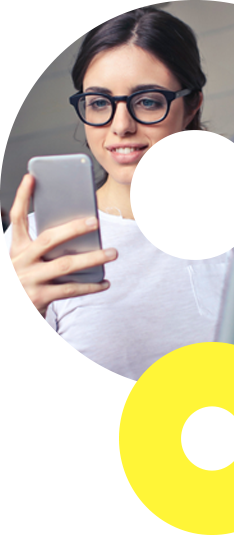
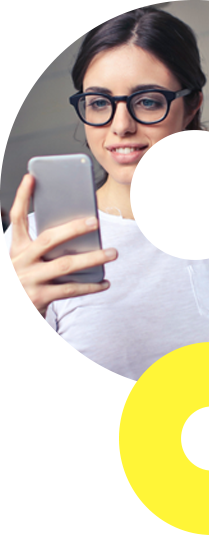
Cambios en overflow

diff --git a/index.html b/index.html
@@ -16,183 +16,185 @@
 </head>
 
 <body>
-    <section class="about">
-        <!-- <img src="images/Bg.png" class="img-fluid" alt=""> -->
-        <div class="header">
-            <img src="images/Dots.png" class="d-block img-fluid ml-auto dots" alt="">
-            <img src="images/Logo.png" class="d-block mx-auto img-fluid logo" alt="">
-            <img src="images/Dots-2.png" class="d-block img-fluid dots-2" alt="">
-        </div>
-        <div class="content">
-            <p class="">Somos la primer y única escuela en la Ciudad de México diseñada por mujeres y para mujeres para formar una nueva generación de conductoras seguras, responsables y confiables que nos permita vivir la experiencia de libertad de manejar un automóvil, camioneta o motocicleta.</p>
-            <p class="">Somos una comunidad de instructoras con más de 10 años de experiencia de manejo, capacitadas para brindar a nuestras alumnas un ámbiente agradable, empático con sus necesidades, libre de acoso.</p>
-            <p class="">Además, te invitamos a conocer los servicios, productos y cuidados que ofrecen nuestras socias de la <span>RED ECONÓMICA PARA MUJERES</span>, para brindarte una mayor cobertura como conductora segura. Pregunta por nuestras promociones y descuentos.</p>
-        </div>
-        <hr>
-        <div class="redes">
-            <img src="images/Dots-3.png" class="img-fluid" alt="">
-            <div class="icons">
-                <a href="tel:5576915963" target="_blank"><img src="images/Tel.png" class="icon" alt=""> 55 7691 5963</a>
-                <a href="https://api.whatsapp.com/send?phone=5215554322040" target="_blank"><img src="images/whats.png" class="icon" alt=""> 55 5432 2040</a>
-                <a href="https://twitter.com/Conductoras1" target="_blank"><img src="images/Twitter.png" class="icon" alt=""> @Conductoras1</a>
-                <a href="mailto:redconductoras@gmail.com" target="_blank"><img src="images/Correo.png" class="icon" alt=""> redconductoras@gmail.com</a>
-                <a href="https://goo.gl/maps/xuTAEPSuWKuKVtMx7" target="_blank"><img src="images/Maps.png" class="icon" alt=""><span>Tomás Alva Edison num 173
-                        Col. San Rafael, Alc. Cuauhtémoc, Ciudad de México</span></a>
+    <div class="wrap">
+        <section class="about">
+            <!-- <img src="images/Bg.png" class="img-fluid" alt=""> -->
+            <div class="header">
+                <img src="images/Dots.png" class="d-block img-fluid ml-auto dots" alt="">
+                <img src="images/Logo.png" class="d-block mx-auto img-fluid logo" alt="">
+                <img src="images/Dots-2.png" class="d-block img-fluid dots-2" alt="">
             </div>
-            <img src="images/Redes.png" class="img-fluid dona" alt="">
-        </div>
-    </section>
-
-    <!-- SERVICIOS -->
-    <section class="servicios">
-        <img src="images/servicios/Dots.png" class="img-fluid d-block mx-auto dots" alt="">
-        <h2 class="text-center my-4 title">SERVICIOS</h2>
-        <div class="servicios">
-            <div class="item">
-                <p>1</p>
-                <img src="images/servicios/Urbano.png" class="img-fluid" alt="">
-                <p>Cursos Básico, Medio y Avanzado <span>Manejo urbano*</span> </p>
+            <div class="content">
+                <p class="">Somos la primer y única escuela en la Ciudad de México diseñada por mujeres y para mujeres para formar una nueva generación de conductoras seguras, responsables y confiables que nos permita vivir la experiencia de libertad de manejar un automóvil, camioneta o motocicleta.</p>
+                <p class="">Somos una comunidad de instructoras con más de 10 años de experiencia de manejo, capacitadas para brindar a nuestras alumnas un ámbiente agradable, empático con sus necesidades, libre de acoso.</p>
+                <p class="">Además, te invitamos a conocer los servicios, productos y cuidados que ofrecen nuestras socias de la <span>RED ECONÓMICA PARA MUJERES</span>, para brindarte una mayor cobertura como conductora segura. Pregunta por nuestras promociones y descuentos.</p>
             </div>
-            <div class="item">
-                <p>2</p>
-                <img src="images/servicios/Carretera.png" class="img-fluid" alt="">
-                <p>Cursos para <span>CARRETERA</span> </p>
-            </div>
-            <div class="item">
-                <p>3</p>
-                <img src="images/servicios/Motocicleta.png" class="img-fluid" alt="">
-                <p>Cursos para <span>MOTOCICLETA</span> </p>
-            </div>
-            <div class="item">
-                <p>4</p>
-                <img src="images/servicios/Herramientas.jpg" class="img-fluid" alt="">
-                <p>Cursos de <span>MÉCANICA GENERAL</span> </p>
-            </div>
-            <div class="restricciones">
-                <div class="">
-                    <span>*</span>
-                    <p>Acudimos a tu domicilio. Se aplican restricciónes.</p>
-                </div>
-                <div class="">
-                    <span>**</span>
-                    <p>Garantizamos la desinfección de nuestras unidades de acuerdo con la normatividad vigente de la Ciudad
-                        de México para prevenir contagios de COVID-19.</p>
-                </div>
-                <div class="">
-                    <span>***</span>
-                    <p>Atención primordial para conductoras nerviosas, mujeres jóvenes y mamás primerizas.</p>
-                </div>
-
-            </div>
-        </div>
-
-    </section>
-    <img src="images/servicios/Dots.png" width="120" class="img-fluid d-block my-2" alt="">
-    <!-- PRECIOS -->
-    <section class="precios py-3">
-        <h2 class="title">PRECIOS</h2>
-        <div class="table">
-            <div class="item">
-                <p><span>MANEJO URBANO</span></p>
-                <p class="text-center">Horas</p>
-                <p class="text-center">Precio</p>
-            </div>
-            <div class="item">
-                <p><span> Básico:</span> Aprende a identificar las partes principales de tu automóvil, tablero y dirección. Standart o automático. Autos sedán o camioneta familiar.</p>
-                <p class="text-center">6 Hrs.</p>
-                <p class="text-center"><span>$1,690 MXN</span></p>
-            </div>
-            <div class="item">
-                <p><span> Medio:</span> Curso básico + Ingreso a avenidas principales o vías primarias rápidas como : Tlalpan, periférico, viaducto, etc. dependiendo donde te encuentres.</p>
-                <p class="text-center">8 Hrs.</p>
-                <p class="text-center"><span>$2,990 MXN</span></p>
-            </div>
-            <div class="item">
-                <p><span>Avanzado:</span> Básico + Medio + Técnicas para evitar accidentes, visualización de punto ciego y arranque en subidas prolongadas.</p>
-                <p class="text-center">10 Hrs.</p>
-                <p class="text-center"><span>$3,790 MXN</span></p>
-            </div>
-            <div class="item">
-                <p><span>Reforzamiento:</span> Para conductores con experiencia. <br>
-                    Formas de estacionamiento. <br>
-                    Vías primarias rápidas. <br>
-                    Manejo de la ansiedad. <br>
-                    Madres primerizas.</p>
-                <p class="text-center">6 Hrs.</p>
-                <p class="text-center"><span>$1,690 MXN</span></p>
-            </div>
-        </div>
-        <div class="table">
-            <div class="item">
-                <p><span>CARRETERA</span></p>
-                <p class="text-center">Horas</p>
-                <p class="text-center">Precio</p>
-            </div>
-            <div class="item">
-                <p>Aprende a manejar en carreteras y autopistas. Seguimiento en caravana, prevención de accidentes.
-                    Conducción nocturna.</p>
-                <p class="text-center">16 Hrs.</p>
-                <p class="text-center"><span>$7,637 MXN</span></p>
-            </div>
-        </div>
-        <div class="table">
-            <div class="item">
-                <p><span>MÉCANICA GENERAL</span></p>
-                <p class="text-center">Horas</p>
-                <p class="text-center">Precio</p>
-            </div>
-            <div class="item">
-                <p>Mécanica para conductoras seguras: Aprende a identificar los testigos del tablero, detectar fallas mecánicas, electrónicas y mantenimiento eficiente de tu automóvil con profesionales.</p>
-                <p class="text-center">4 Hrs.</p>
-                <p class="text-center"><span>$700 MXN</span></p>
-            </div>
-        </div>
-    </section>
-
-    <!-- PROMOCIONES -->
-    <section class="promociones ">
-        <div class="content">
-            <div class="header d-flex align-items-center justify-content-center mb-3">
-                <img src="images/Dots-5.png" class="" alt="">
-                <h2 class="title text-center">PROMOCIONES</h2>
-                <img src="images/Icon-Logo.png" class="icon" alt="">
-            </div>
-            <div class="item">
-                <p class="mb-1"><span class="bold">01</span></p>
-                <p>A partir del curso medio tenemos 3 promociones a elegir: </p>
-                <p class="mb-0">a) Una hora de clase adicional gratis,</p>
-                <p class="mb-0">b) El 10% de descuento.</p>
-                <p class="">c) 6 meses sin intereses, más comisión bancaria. </p>
-                <p class="mb-1"><span>* Solo aplica una promoción por curso.</span></p>
-            </div>
-            <div class="item">
-                <p class="mb-1"><span class="bold">02</span></p>
-                <p>En todos los niveles tenemos servicio a domicilio sin costo adicional, si te encuentras a 15 km de la escuela.</p>
-            </div>
-        </div>
-    </section>
-
-    <!-- Contacto -->
-    <section class="contacto">
-        <div class="content">
-            <img src="images/Contacto/Dona.png" class="dona" alt="">
+            <hr>
             <div class="redes">
-                <a href="tel:5576915963" target="_blank"><img src="images/Contacto/Tel.png" alt=""></a>
-                <a href="https://api.whatsapp.com/send?phone=5215554322040" target="_blank"><img src="images/Contacto/whats.png" alt=""></a>
-                <a href="https://twitter.com/Conductoras1" target="_blank"><img src="images/Contacto/Twitter.png" alt=""></a>
-                <a href="mailto:redconductoras@gmail.com" target="_blank"><img src="images/Contacto/email.png" alt=""></a>
-                <a href="https://goo.gl/maps/xuTAEPSuWKuKVtMx7" target="_blank"><img src="images/Contacto/Map.png" alt=""></a>
+                <img src="images/Dots-3.png" class="img-fluid" alt="">
+                <div class="icons">
+                    <a href="tel:5576915963" target="_blank"><img src="images/Tel.png" class="icon" alt=""> 55 7691 5963</a>
+                    <a href="https://api.whatsapp.com/send?phone=5215554322040" target="_blank"><img src="images/whats.png" class="icon" alt=""> 55 5432 2040</a>
+                    <a href="https://twitter.com/Conductoras1" target="_blank"><img src="images/Twitter.png" class="icon" alt=""> @Conductoras1</a>
+                    <a href="mailto:redconductoras@gmail.com" target="_blank"><img src="images/Correo.png" class="icon" alt=""> redconductoras@gmail.com</a>
+                    <a href="https://goo.gl/maps/xuTAEPSuWKuKVtMx7" target="_blank"><img src="images/Maps.png" class="icon" alt=""><span>Tomás Alva Edison num 173
+                            Col. San Rafael, Alc. Cuauhtémoc, Ciudad de México</span></a>
+                </div>
+                <img src="images/Redes.png" class="img-fluid dona" alt="">
             </div>
-            <div class="item d-flex justify-content-center align-items-center">
-                <!-- <img src="images/Dots-5.png" class="" alt=""> -->
-                <h2 class="title">CONTACTO</h2>
+        </section>
+
+        <!-- SERVICIOS -->
+        <section class="servicios">
+            <img src="images/servicios/Dots.png" class="img-fluid d-block mx-auto dots" alt="">
+            <h2 class="text-center my-4 title">SERVICIOS</h2>
+            <div class="servicios">
+                <div class="item">
+                    <p>1</p>
+                    <img src="images/servicios/Urbano.png" class="img-fluid" alt="">
+                    <p>Cursos Básico, Medio y Avanzado <span>Manejo urbano*</span> </p>
+                </div>
+                <div class="item">
+                    <p>2</p>
+                    <img src="images/servicios/Carretera.png" class="img-fluid" alt="">
+                    <p>Cursos para <span>CARRETERA</span> </p>
+                </div>
+                <div class="item">
+                    <p>3</p>
+                    <img src="images/servicios/Motocicleta.png" class="img-fluid" alt="">
+                    <p>Cursos para <span>MOTOCICLETA</span> </p>
+                </div>
+                <div class="item">
+                    <p>4</p>
+                    <img src="images/servicios/Herramientas.jpg" class="img-fluid" alt="">
+                    <p>Cursos de <span>MÉCANICA GENERAL</span> </p>
+                </div>
+                <div class="restricciones">
+                    <div class="">
+                        <span>*</span>
+                        <p>Acudimos a tu domicilio. Se aplican restricciónes.</p>
+                    </div>
+                    <div class="">
+                        <span>**</span>
+                        <p>Garantizamos la desinfección de nuestras unidades de acuerdo con la normatividad vigente de la Ciudad
+                            de México para prevenir contagios de COVID-19.</p>
+                    </div>
+                    <div class="">
+                        <span>***</span>
+                        <p>Atención primordial para conductoras nerviosas, mujeres jóvenes y mamás primerizas.</p>
+                    </div>
+
+                </div>
             </div>
-        </div>
-    </section>
-    <footer>
-        <img src="images/Logo-Footer.png" class="img-fluid logo-footer" alt="">
-        <img src="images/Dots-Footer.png" class="img-fluid" alt="">
-    </footer>
+
+        </section>
+        <img src="images/servicios/Dots.png" width="120" class="img-fluid d-block my-2" alt="">
+        <!-- PRECIOS -->
+        <section class="precios py-3">
+            <h2 class="title">PRECIOS</h2>
+            <div class="table">
+                <div class="item">
+                    <p><span>MANEJO URBANO</span></p>
+                    <p class="text-center">Horas</p>
+                    <p class="text-center">Precio</p>
+                </div>
+                <div class="item">
+                    <p><span> Básico:</span> Aprende a identificar las partes principales de tu automóvil, tablero y dirección. Standart o automático. Autos sedán o camioneta familiar.</p>
+                    <p class="text-center">6 Hrs.</p>
+                    <p class="text-center"><span>$1,690 MXN</span></p>
+                </div>
+                <div class="item">
+                    <p><span> Medio:</span> Curso básico + Ingreso a avenidas principales o vías primarias rápidas como : Tlalpan, periférico, viaducto, etc. dependiendo donde te encuentres.</p>
+                    <p class="text-center">8 Hrs.</p>
+                    <p class="text-center"><span>$2,990 MXN</span></p>
+                </div>
+                <div class="item">
+                    <p><span>Avanzado:</span> Básico + Medio + Técnicas para evitar accidentes, visualización de punto ciego y arranque en subidas prolongadas.</p>
+                    <p class="text-center">10 Hrs.</p>
+                    <p class="text-center"><span>$3,790 MXN</span></p>
+                </div>
+                <div class="item">
+                    <p><span>Reforzamiento:</span> Para conductores con experiencia. <br>
+                        Formas de estacionamiento. <br>
+                        Vías primarias rápidas. <br>
+                        Manejo de la ansiedad. <br>
+                        Madres primerizas.</p>
+                    <p class="text-center">6 Hrs.</p>
+                    <p class="text-center"><span>$1,690 MXN</span></p>
+                </div>
+            </div>
+            <div class="table">
+                <div class="item">
+                    <p><span>CARRETERA</span></p>
+                    <p class="text-center">Horas</p>
+                    <p class="text-center">Precio</p>
+                </div>
+                <div class="item">
+                    <p>Aprende a manejar en carreteras y autopistas. Seguimiento en caravana, prevención de accidentes.
+                        Conducción nocturna.</p>
+                    <p class="text-center">16 Hrs.</p>
+                    <p class="text-center"><span>$7,637 MXN</span></p>
+                </div>
+            </div>
+            <div class="table">
+                <div class="item">
+                    <p><span>MÉCANICA GENERAL</span></p>
+                    <p class="text-center">Horas</p>
+                    <p class="text-center">Precio</p>
+                </div>
+                <div class="item">
+                    <p>Mécanica para conductoras seguras: Aprende a identificar los testigos del tablero, detectar fallas mecánicas, electrónicas y mantenimiento eficiente de tu automóvil con profesionales.</p>
+                    <p class="text-center">4 Hrs.</p>
+                    <p class="text-center"><span>$700 MXN</span></p>
+                </div>
+            </div>
+        </section>
+
+        <!-- PROMOCIONES -->
+        <section class="promociones ">
+            <div class="content">
+                <div class="header d-flex align-items-center justify-content-center mb-3">
+                    <img src="images/Dots-5.png" class="" alt="">
+                    <h2 class="title text-center">PROMOCIONES</h2>
+                    <img src="images/Icon-Logo.png" class="icon" alt="">
+                </div>
+                <div class="item">
+                    <p class="mb-1"><span class="bold">01</span></p>
+                    <p>A partir del curso medio tenemos 3 promociones a elegir: </p>
+                    <p class="mb-0">a) Una hora de clase adicional gratis,</p>
+                    <p class="mb-0">b) El 10% de descuento.</p>
+                    <p class="">c) 6 meses sin intereses, más comisión bancaria. </p>
+                    <p class="mb-1"><span>* Solo aplica una promoción por curso.</span></p>
+                </div>
+                <div class="item">
+                    <p class="mb-1"><span class="bold">02</span></p>
+                    <p>En todos los niveles tenemos servicio a domicilio sin costo adicional, si te encuentras a 15 km de la escuela.</p>
+                </div>
+            </div>
+        </section>
+
+        <!-- Contacto -->
+        <section class="contacto">
+            <div class="content">
+                <img src="images/Contacto/Dona.png" class="dona" alt="">
+                <div class="redes">
+                    <a href="tel:5576915963" target="_blank"><img src="images/Contacto/Tel.png" alt=""></a>
+                    <a href="https://api.whatsapp.com/send?phone=5215554322040" target="_blank"><img src="images/Contacto/whats.png" alt=""></a>
+                    <a href="https://twitter.com/Conductoras1" target="_blank"><img src="images/Contacto/Twitter.png" alt=""></a>
+                    <a href="mailto:redconductoras@gmail.com" target="_blank"><img src="images/Contacto/email.png" alt=""></a>
+                    <a href="https://goo.gl/maps/xuTAEPSuWKuKVtMx7" target="_blank"><img src="images/Contacto/Map.png" alt=""></a>
+                </div>
+                <div class="item d-flex justify-content-center align-items-center">
+                    <!-- <img src="images/Dots-5.png" class="" alt=""> -->
+                    <h2 class="title">CONTACTO</h2>
+                </div>
+            </div>
+        </section>
+        <footer>
+            <img src="images/Logo-Footer.png" class="img-fluid logo-footer" alt="">
+            <img src="images/Dots-Footer.png" class="img-fluid" alt="">
+        </footer>
+    </div>
 
     <!-- Optional JavaScript -->
     <!-- jQuery first, then Popper.js, then Bootstrap JS -->

diff --git a/css/style.css b/css/style.css
@@ -31,6 +31,11 @@ h2.title {
     font-size: 1.3rem;
 }
 
+.wrap {
+    max-width: 600px;
+    margin: 0 auto;
+}
+
 /* About */
 .about {
     background-image: url(../images/Bg.png);
@@ -114,8 +119,8 @@ h2.title {
     position: absolute;
     top: -40px;
     width: 40%;
-    right: -20px;
-    width: 125px;
+    right: 0;
+    width: 110px;
 }
 
 /* Servicios */
